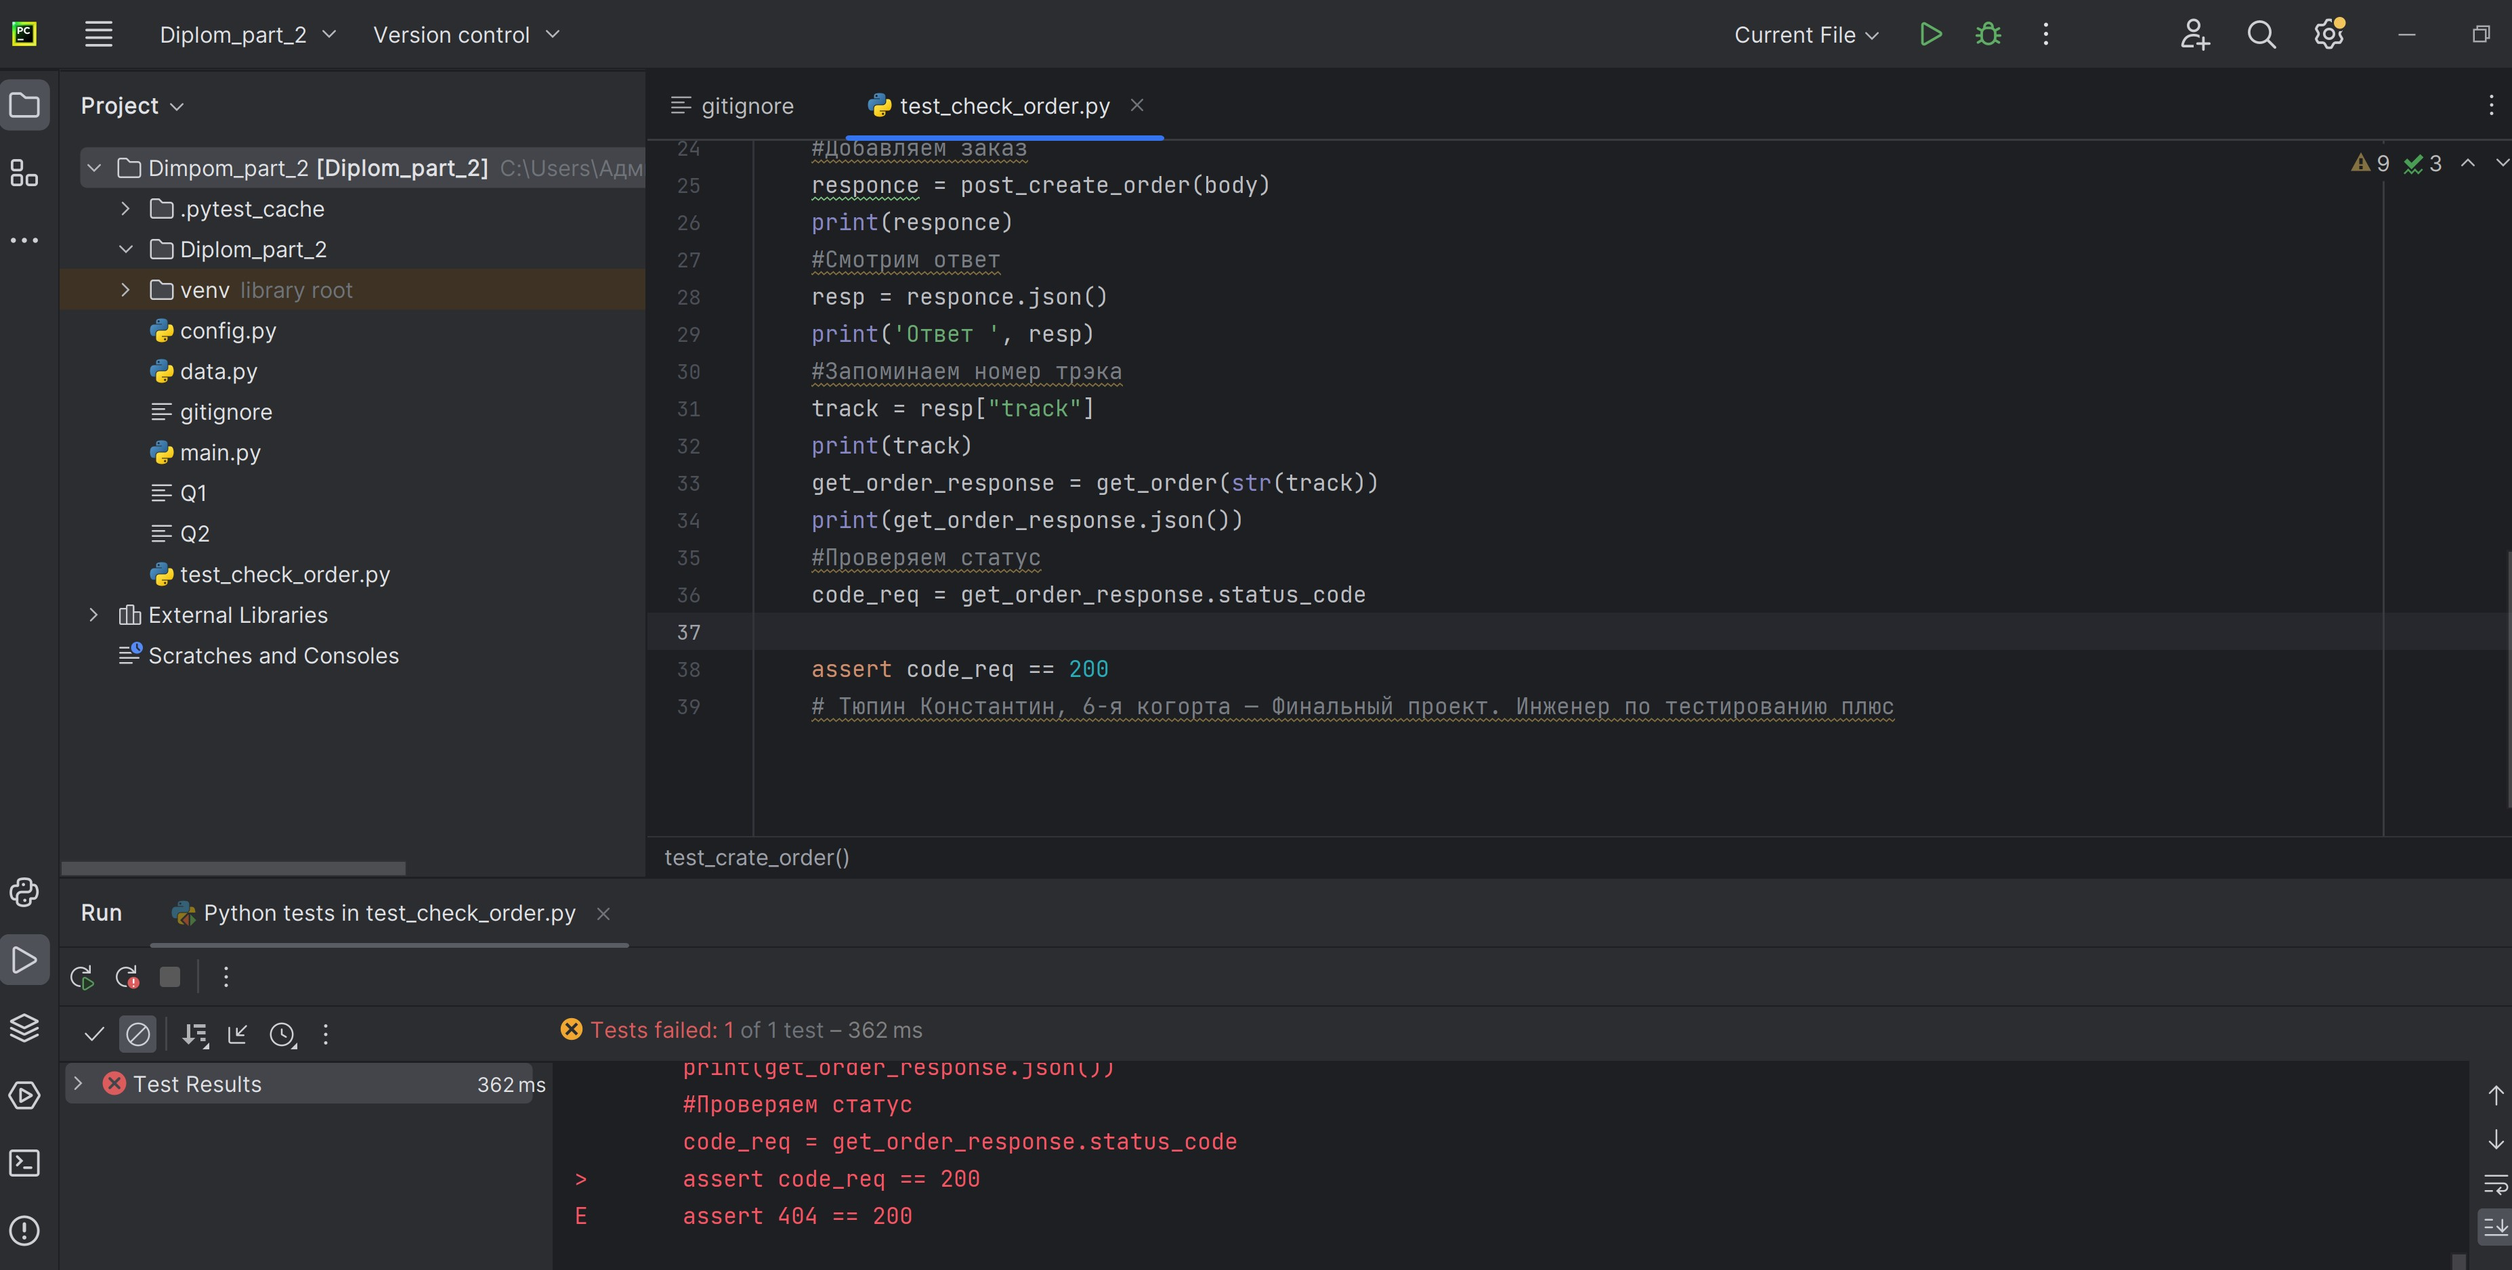
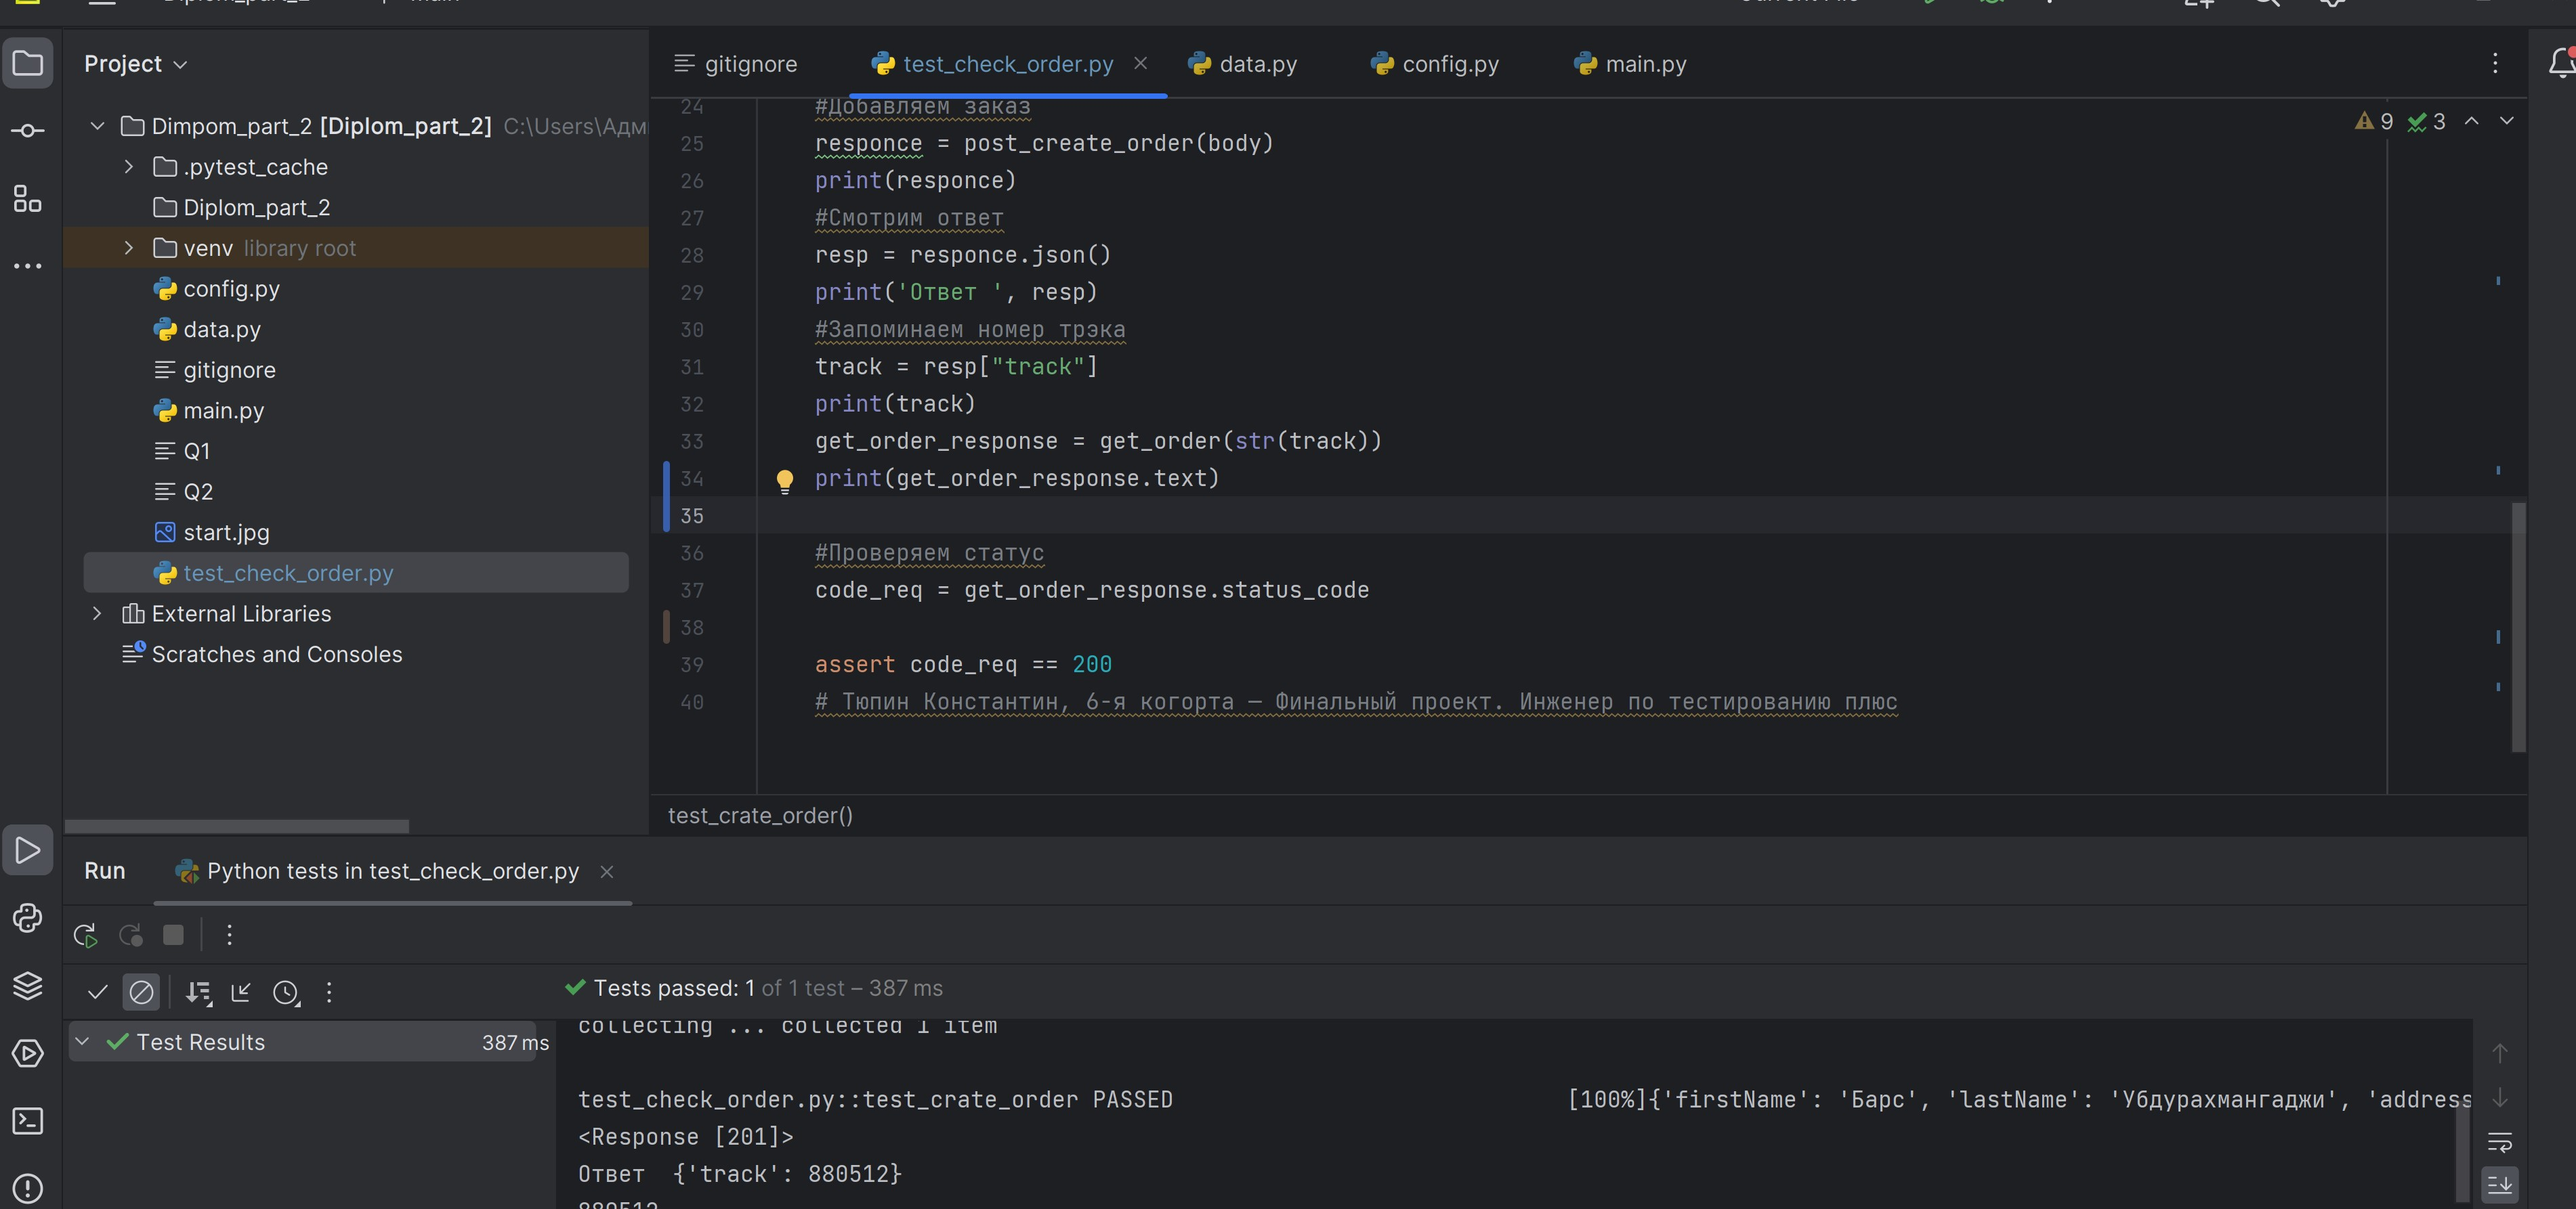
My new changes@#56456thrtghfghdfgdfgdfhrghfghft87980-oop4

diff --git a/test_check_order.py b/test_check_order.py
@@ -6,7 +6,7 @@ def post_create_order(body):
     return requests.post(config.URL_SERVICE + config.CREATE_ORDER_PATH, json=body)
 
 def get_order(track):
-    return requests.get(config.URL_SERVICE + config.CREATE_ORDER_PATH + track)
+    return requests.get(config.URL_SERVICE + config.GET_ORDER + str(track))
 
 
 def get_order_body(first_name):
@@ -19,7 +19,7 @@ def get_order_body(first_name):
 
 def test_crate_order():
     #Отправляем имя заказчика
-    body = get_order_body('Барисик')
+    body = get_order_body('Барc')
     print(body)
     #Добавляем заказ
     responce = post_create_order(body)
@@ -31,9 +31,10 @@ def test_crate_order():
     track = resp["track"]
     print(track)
     get_order_response = get_order(str(track))
-    print(get_order_response.json())
+    print(get_order_response.text)
+
     #Проверяем статус
     code_req = get_order_response.status_code
-   
+
     assert code_req == 200
     # Тюпин Константин, 6-я когорта — Финальный проект. Инженер по тестированию плюс
